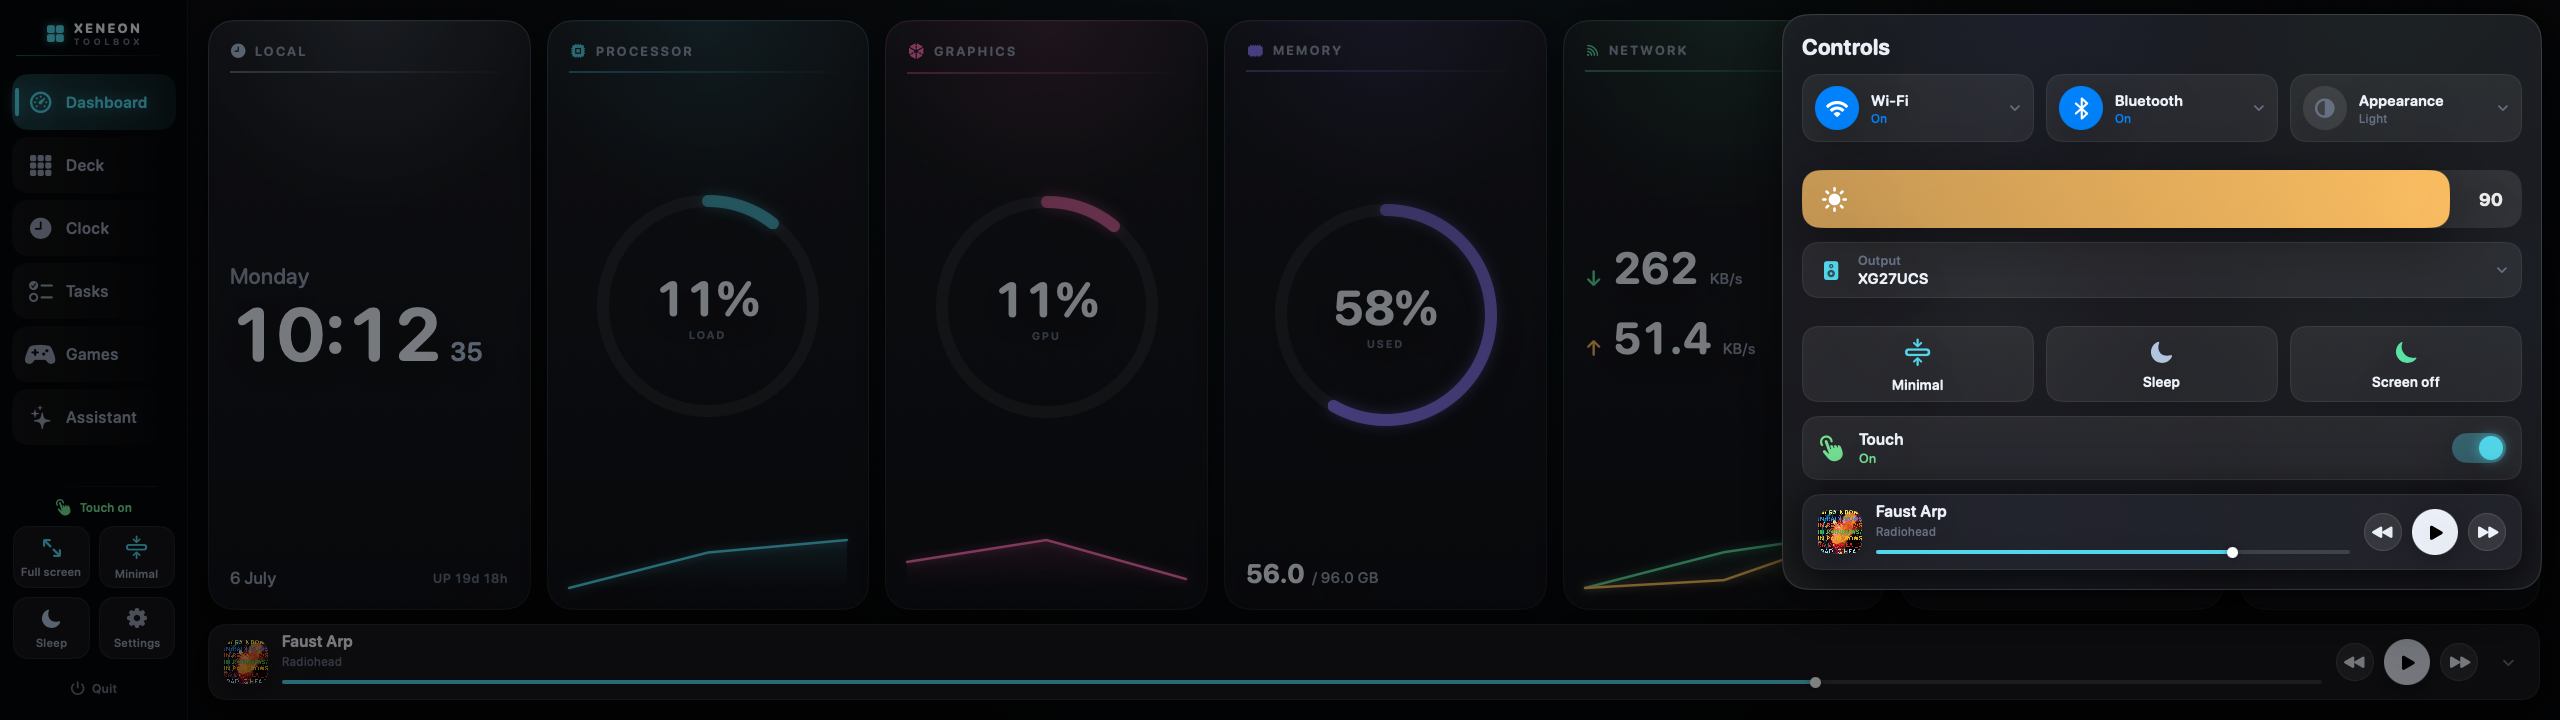
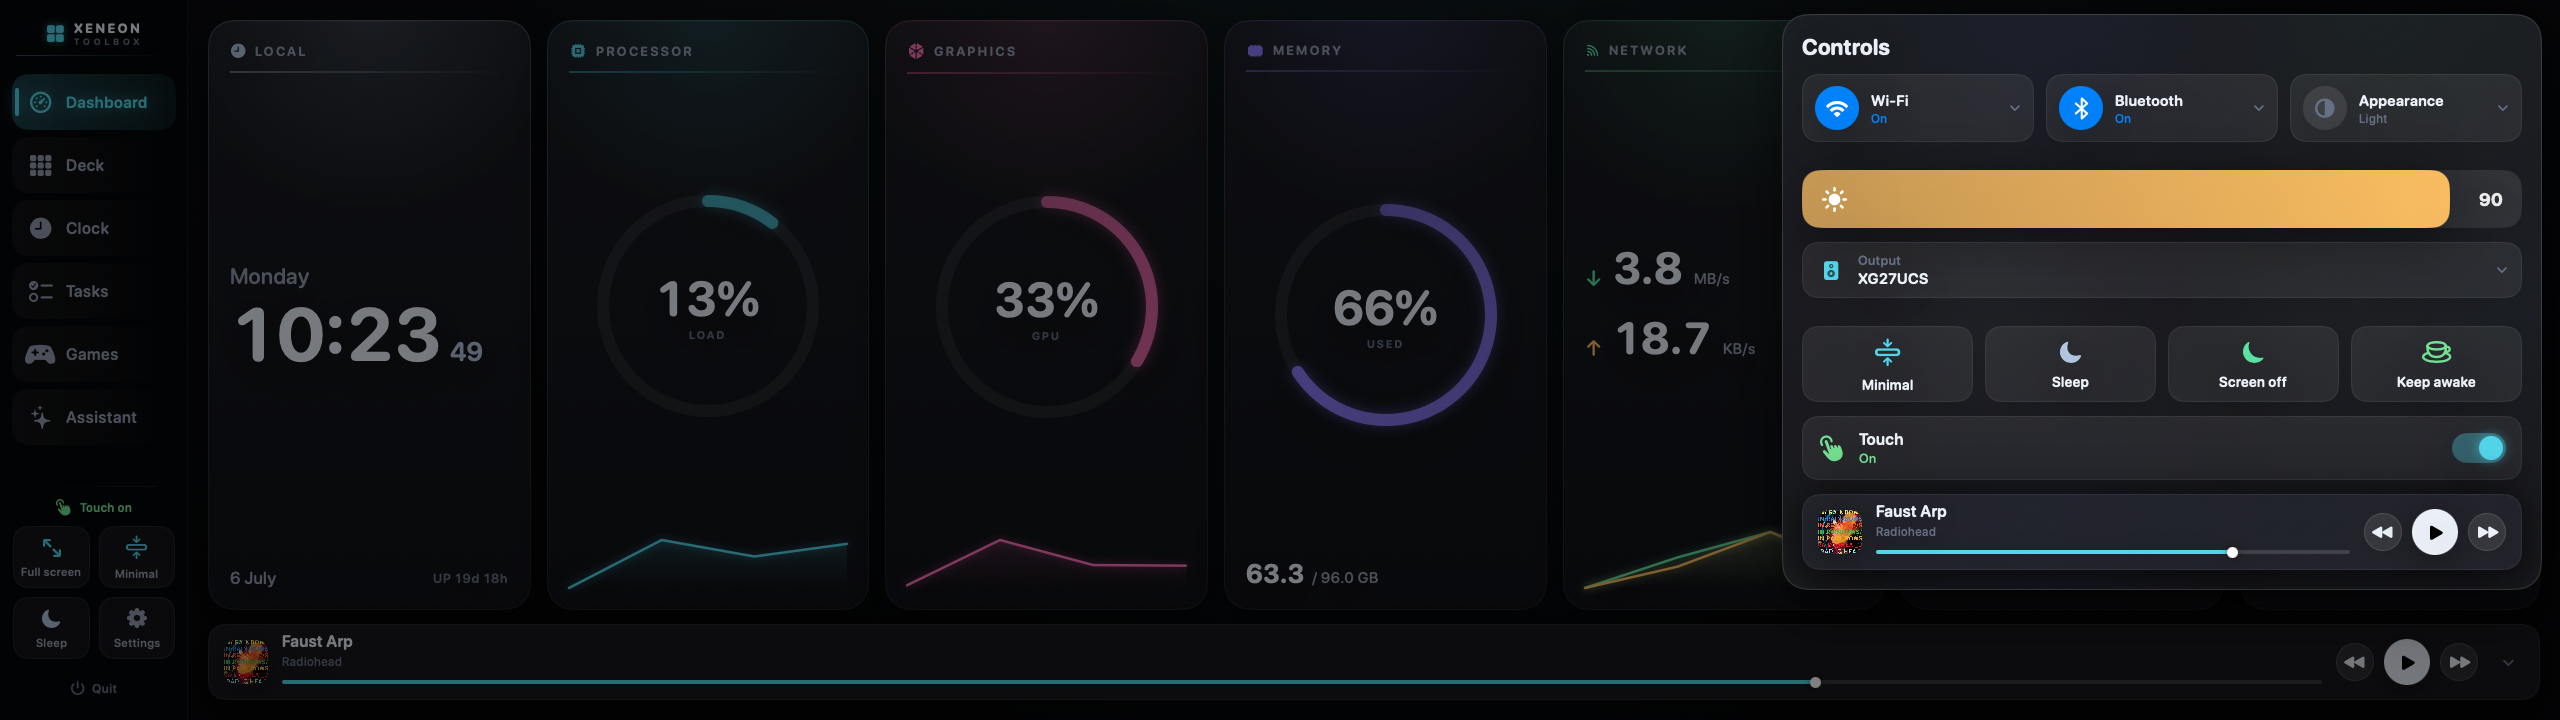
feat(control-centre): Keep Awake toggle
Prevent the Mac from sleeping while it's on (like Amphetamine/Caffeine),
via an IOKit power assertion released automatically on quit. Shown as a
highlighting quick-action tile; README updated for this and per-tile edit.

diff --git a/Sources/XeneonToolbox/UI/ControlCenterView.swift b/Sources/XeneonToolbox/UI/ControlCenterView.swift
@@ -6,6 +6,7 @@ struct ControlCenterView: View {
     @ObservedObject var model: ToolboxModel
     @ObservedObject var toggles: SystemToggles
     @ObservedObject var audio: AudioOutput
+    @ObservedObject var keepAwake: KeepAwake
     @State private var brightness: Double = 90
     @State private var volume: Double = 50
     @State private var volumeAvailable = false
@@ -93,6 +94,8 @@ struct ControlCenterView: View {
                 actionTile("Minimal", "rectangle.compress.vertical", Theme.accent) { close(); model.setDisplay(.minimal) }
                 actionTile("Sleep", "moon.fill", Theme.time) { close(); model.setDisplay(.sleep) }
                 actionTile("Screen off", "powersleep", Theme.netDown) { close(); model.turnScreenOff() }
+                actionTile("Keep awake", keepAwake.on ? "cup.and.saucer.fill" : "cup.and.saucer",
+                           Theme.battery, active: keepAwake.on) { keepAwake.toggle() }
             }
 
             touchTile
@@ -374,15 +377,15 @@ struct ControlCenterView: View {
 
     private func close() { model.closeControlCenter() }
 
-    private func actionTile(_ title: String, _ icon: String, _ tint: Color, _ action: @escaping () -> Void) -> some View {
+    private func actionTile(_ title: String, _ icon: String, _ tint: Color, active: Bool = false, _ action: @escaping () -> Void) -> some View {
         Button(action: action) {
             VStack(spacing: 8) {
-                Image(systemName: icon).font(.system(size: 22, weight: .bold)).foregroundStyle(tint)
-                Text(title).font(.deck(14, .semibold)).foregroundStyle(Theme.textPrimary)
+                Image(systemName: icon).font(.system(size: 22, weight: .bold)).foregroundStyle(active ? .white : tint)
+                Text(title).font(.deck(14, .semibold)).foregroundStyle(active ? .white : Theme.textPrimary)
             }
             .frame(maxWidth: .infinity).frame(height: 76)
-            .background(RoundedRectangle(cornerRadius: 16, style: .continuous).fill(Color.white.opacity(0.07)))
-            .overlay(RoundedRectangle(cornerRadius: 16, style: .continuous).strokeBorder(Theme.stroke, lineWidth: 1))
+            .background(RoundedRectangle(cornerRadius: 16, style: .continuous).fill(active ? tint.opacity(0.85) : Color.white.opacity(0.07)))
+            .overlay(RoundedRectangle(cornerRadius: 16, style: .continuous).strokeBorder(active ? tint : Theme.stroke, lineWidth: 1))
             .contentShape(RoundedRectangle(cornerRadius: 16, style: .continuous))
         }.buttonStyle(.pressable)
     }

diff --git a/Sources/XeneonToolbox/KeepAwake.swift b/Sources/XeneonToolbox/KeepAwake.swift
@@ -1,0 +1,35 @@
+import Foundation
+import IOKit.pwr_mgt
+
+/// Prevents the Mac from sleeping while on — the "Amphetamine / Caffeine"
+/// utility, as a Control Centre toggle. Uses an IOKit power assertion (no
+/// subprocess); the assertion is released automatically when the app quits.
+@MainActor
+final class KeepAwake: ObservableObject {
+    @Published private(set) var on = false
+    private var assertionID: IOPMAssertionID = 0
+
+    func toggle() { set(!on) }
+
+    func set(_ enabled: Bool) {
+        guard enabled != on else { return }
+        if enabled {
+            var id: IOPMAssertionID = 0
+            let reason = "Xeneon Toolbox — Keep Awake" as CFString
+            let rc = IOPMAssertionCreateWithName(
+                kIOPMAssertionTypePreventUserIdleSystemSleep as CFString,
+                IOPMAssertionLevel(kIOPMAssertionLevelOn), reason, &id)
+            if rc == kIOReturnSuccess {
+                assertionID = id
+                on = true
+                AppLog.info("power", "keep-awake ON")
+            } else {
+                AppLog.error("power", "keep-awake assertion failed rc=\(rc)")
+            }
+        } else {
+            if assertionID != 0 { IOPMAssertionRelease(assertionID); assertionID = 0 }
+            on = false
+            AppLog.info("power", "keep-awake OFF")
+        }
+    }
+}

diff --git a/Sources/XeneonToolbox/UI/PanelView.swift b/Sources/XeneonToolbox/UI/PanelView.swift
@@ -134,7 +134,7 @@ struct RootView: View {
                 Color.black.opacity(0.5 * model.controlExt).ignoresSafeArea()
                     .contentShape(Rectangle())
                     .onTapGesture { model.closeControlCenter() }
-                ControlCenterView(model: model, toggles: model.systemToggles, audio: model.audioOutput)
+                ControlCenterView(model: model, toggles: model.systemToggles, audio: model.audioOutput, keepAwake: model.keepAwake)
                     .background(GeometryReader { g in
                         Color.clear.preference(key: CCHeightKey.self, value: g.size.height)
                     })

diff --git a/Sources/XeneonToolbox/ToolboxModel.swift b/Sources/XeneonToolbox/ToolboxModel.swift
@@ -64,6 +64,7 @@ final class ToolboxModel: ObservableObject {
     let calendar = CalendarService()
     let systemToggles = SystemToggles()
     let audioOutput = AudioOutput()
+    let keepAwake = KeepAwake()
     let canControlBacklight = Backlight.isAvailable
     @Published var brightness: Int = 90          // Edge backlight 0–100 (DDC)
     private var preDimBrightness = 90             // restored when waking from sleep

diff --git a/README.md b/README.md
@@ -108,10 +108,11 @@ shortcuts** system-wide, run shell commands or webhooks, or control media.
 **Multi tiles** chain your other tiles into one tap — pick them in the order
 they should run. **Long-press an app tile** to pick which display to open it on
 — or move it there if it's already running. The grid scrolls when your deck outgrows the panel. Tap
-**Edit** to drag tiles into any order or remove them, **Sort** alphabetically or
-by type (with a confirmation before it replaces a hand-arranged order), and
-**Add** from a searchable picker that hides what's already on the deck —
-including custom actions with an SF Symbol or your own uploaded icon.
+**Edit** to drag tiles into any order, remove them, or tap the pencil to
+**rename / re-icon / retarget** a tile in place, **Sort** alphabetically or by
+type (with a confirmation before it replaces a hand-arranged order), and **Add**
+from a searchable picker that hides what's already on the deck — including custom
+actions with an SF Symbol or your own uploaded icon.
 
 ![Deck](docs/img/deck.png)
 
@@ -124,7 +125,8 @@ rest of the tile to expand a picker** — nearby Wi-Fi networks (tap to join, ta
 the connected one to disconnect), paired Bluetooth devices (tap to connect or
 disconnect), and your Focus modes. An Appearance tile flips system dark mode,
 and below sit brightness, volume, an **audio-output switcher** (tap to send
-sound to your speakers, AirPods, or headphones), quick actions, a touch toggle,
+sound to your speakers, AirPods, or headphones), quick actions including
+**Keep Awake** (stop the Mac sleeping, like Amphetamine), a touch toggle,
 and now-playing.
 
 Some of it needs one-time grants: allow **Location** for Wi-Fi network names,
